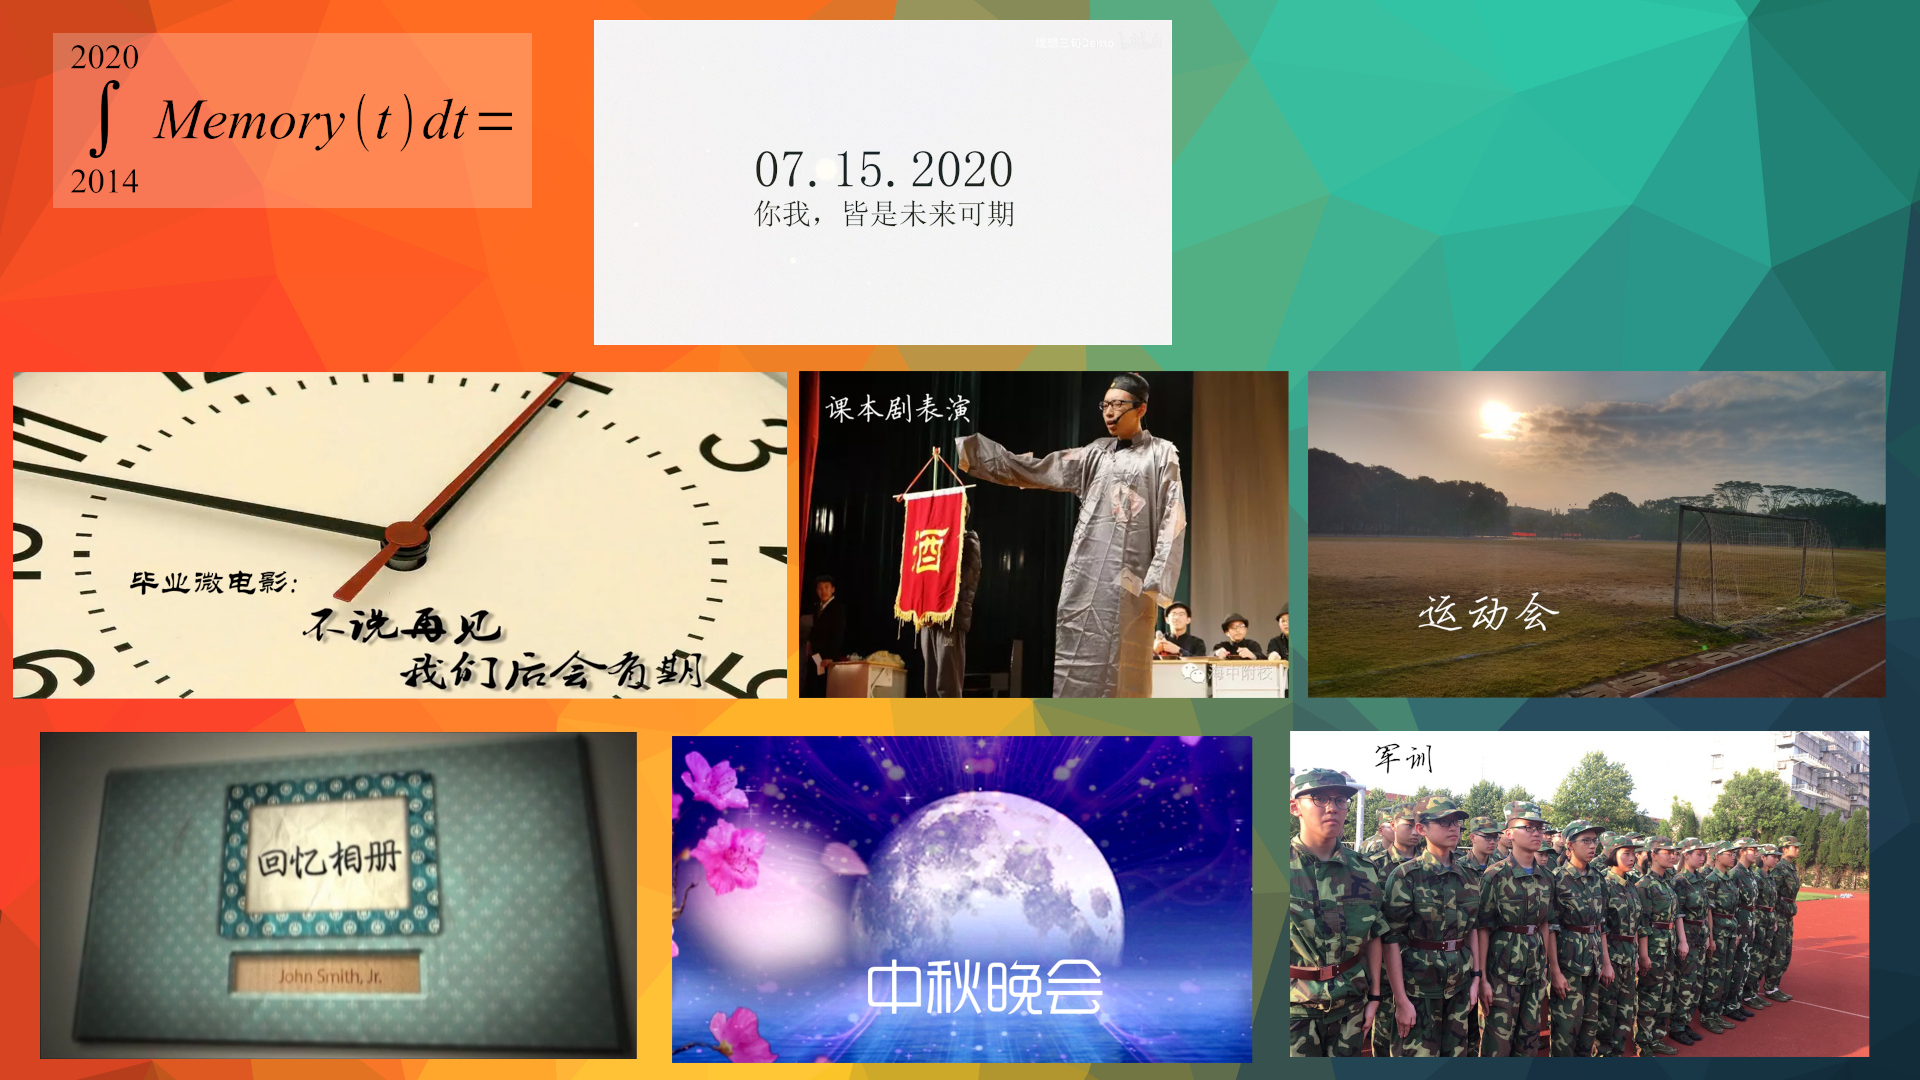
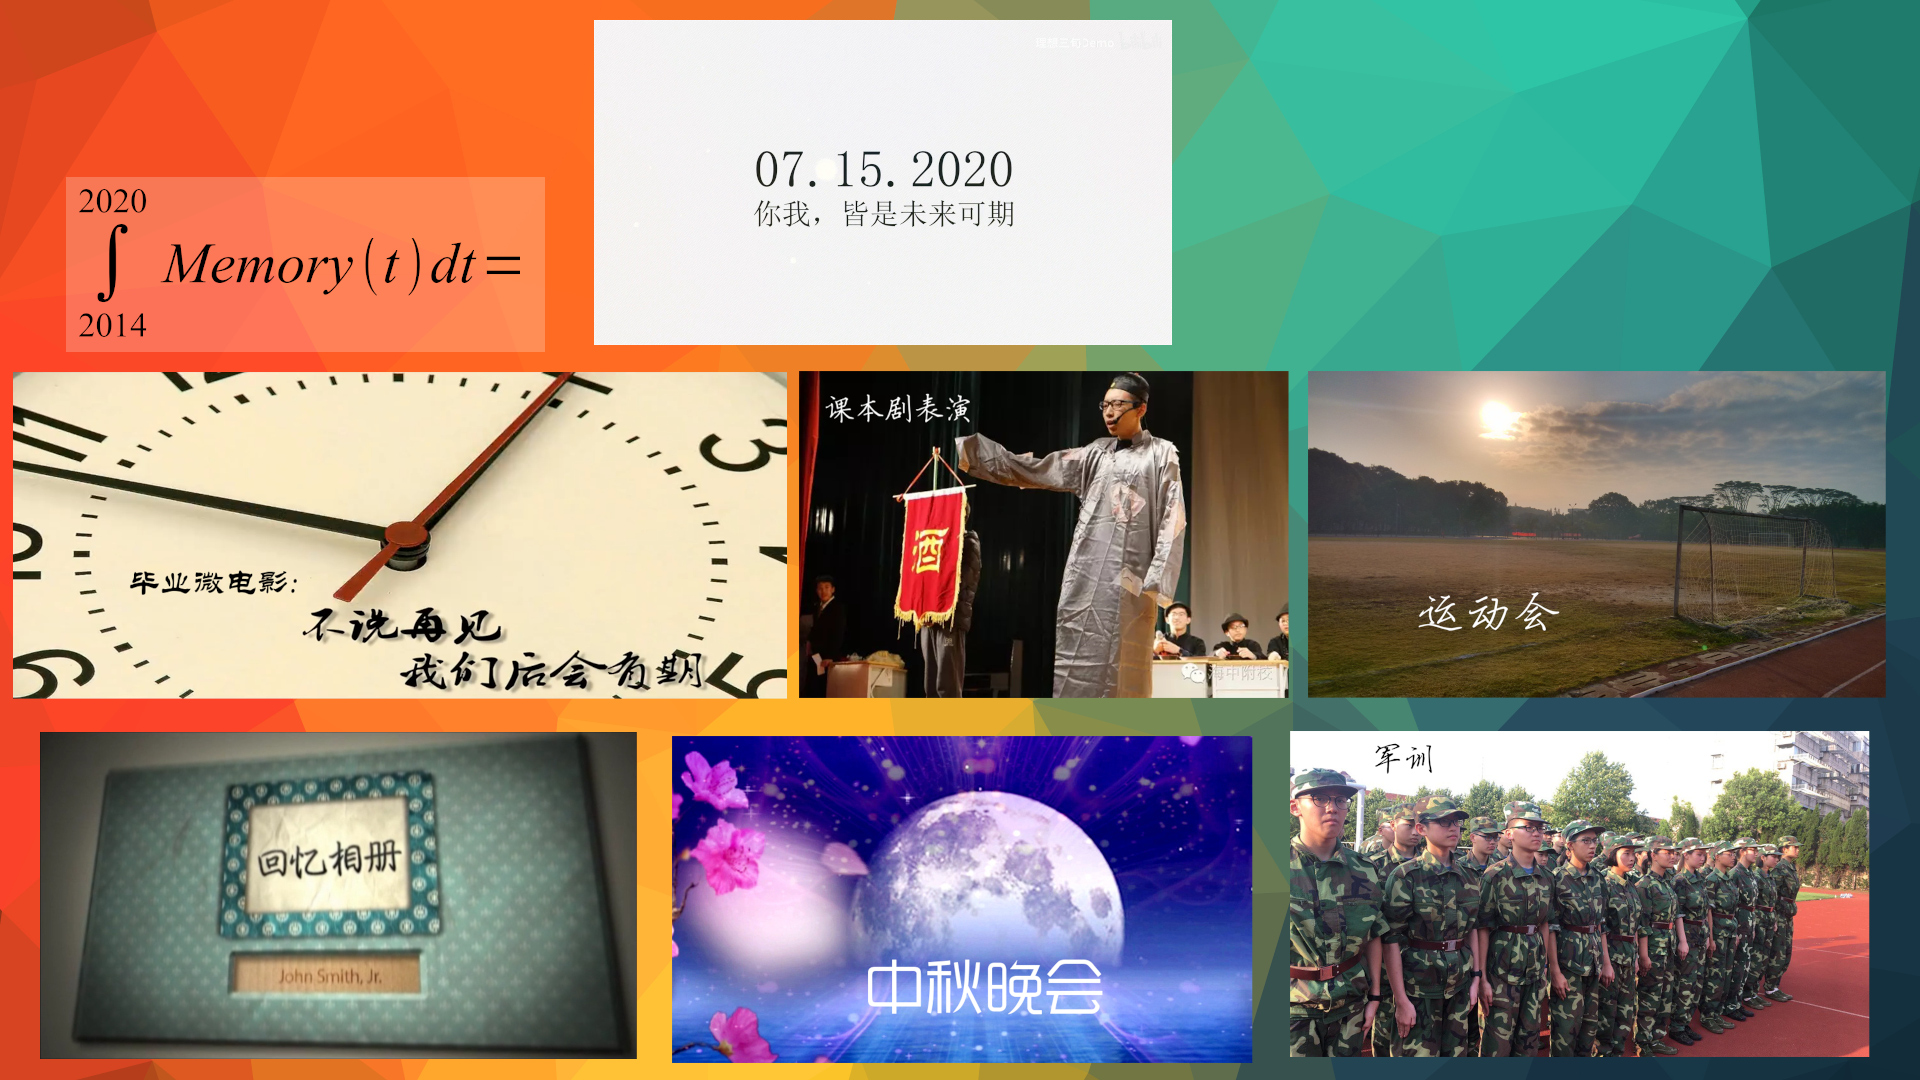
Add hot spot region

Changed region(s): [[0.0, 0.0306, 0.2812, 0.3361]]

diff --git a/special/main/album/_vti_cnf/album-list.htm b/special/main/album/_vti_cnf/album-list.htm
@@ -1,18 +1,18 @@
 vti_encoding:SR|utf8-nl
 vti_author:SR|TESTUSER-0D65EB\\testuser
 vti_modifiedby:SR|TESTUSER-0D65EB\\testuser
-vti_timelastmodified:TR|21 Jul 2020 16:29:32 -0000
+vti_timelastmodified:TR|22 Jul 2020 02:01:53 -0000
 vti_timecreated:TR|15 Jan 2020 13:54:14 -0000
 vti_title:SR|班级介绍导航
 vti_extenderversion:SR|6.0.2.6551
-vti_nexttolasttimemodified:TW|21 Jan 2020 15:21:37 -0000
+vti_nexttolasttimemodified:TW|21 Jul 2020 16:29:32 -0000
 vti_backlinkinfo:VX|index.htm album/memories/memories.htm album/graduation-album-2020/graduation-album-2020.htm album/album.htm album/performances/performances.htm album/mid-autumn-party/mid-autumn-party.htm album/sports-meeting/sports-meeting.htm album/album-list.htm album/military-training/military-training.htm album/microfilm/microfilm.htm
-vti_cacheddtm:TX|21 Jul 2020 16:29:32 -0000
-vti_filesize:IR|1225
+vti_cacheddtm:TX|22 Jul 2020 02:01:53 -0000
+vti_filesize:IR|1331
 vti_cachedtitle:SR|班级介绍导航
 vti_cachedbodystyle:SR|<body>
-vti_cachedlinkinfo:VX|Q|../main.css H|../index.htm S|../images/back.png H|microfilm/microfilm.htm H|memories/memories.htm H|performances/performances.htm H|mid-autumn-party/mid-autumn-party.htm H|military-training/military-training.htm H|sports-meeting/sports-meeting.htm S|精彩瞬间导航-2.jpg K|album-list.htm
-vti_cachedsvcrellinks:VX|FQUS|main.css FHUS|index.htm FSUS|images/back.png FHUS|album/microfilm/microfilm.htm FHUS|album/memories/memories.htm FHUS|album/performances/performances.htm FHUS|album/mid-autumn-party/mid-autumn-party.htm FHUS|album/military-training/military-training.htm FHUS|album/sports-meeting/sports-meeting.htm FSUS|album/精彩瞬间导航-2.jpg FKUS|album/album-list.htm
+vti_cachedlinkinfo:VX|Q|../main.css H|../index.htm S|../images/back.png H|microfilm/microfilm.htm H|memories/memories.htm H|performances/performances.htm H|mid-autumn-party/mid-autumn-party.htm H|military-training/military-training.htm H|sports-meeting/sports-meeting.htm H|graduation-album-2020/graduation-album-2020.htm S|精彩瞬间导航-2.jpg K|album-list.htm
+vti_cachedsvcrellinks:VX|FQUS|main.css FHUS|index.htm FSUS|images/back.png FHUS|album/microfilm/microfilm.htm FHUS|album/memories/memories.htm FHUS|album/performances/performances.htm FHUS|album/mid-autumn-party/mid-autumn-party.htm FHUS|album/military-training/military-training.htm FHUS|album/sports-meeting/sports-meeting.htm FHUS|album/graduation-album-2020/graduation-album-2020.htm FSUS|album/精彩瞬间导航-2.jpg FKUS|album/album-list.htm
 vti_cachedneedsrewrite:BR|false
 vti_cachedhasbots:BR|false
 vti_cachedhastheme:BR|false

diff --git a/special/main/album/album-list.htm b/special/main/album/album-list.htm
@@ -26,6 +26,8 @@
 <area href="military-training/military-training.htm" shape="rect" coords="1281, 720, 1884, 1071">
 <area href="sports-meeting/sports-meeting.htm" shape="rect" coords="1303, 366, 1895, 702">
 
+<area href="graduation-album-2020/graduation-album-2020.htm" shape="rect" coords="586, 14, 1183, 354">
+
 </map>
 <img border="0" src="精彩瞬间导航-2.jpg" usemap="#FPMap0" width="1920" height="1080">
 </div>

diff --git a/special/main/album/graduation-album-2020/_vti_cnf/graduation-album-2020.htm b/special/main/album/graduation-album-2020/_vti_cnf/graduation-album-2020.htm
@@ -5,7 +5,7 @@ vti_timelastmodified:TR|21 Jul 2020 16:33:48 -0000
 vti_timecreated:TR|21 Jul 2020 16:29:15 -0000
 vti_title:SR|海中20届16班毕业相册
 vti_extenderversion:SR|6.0.2.6551
-vti_backlinkinfo:VX|
+vti_backlinkinfo:VX|album/album-list.htm
 vti_nexttolasttimemodified:TW|21 Jul 2020 16:32:33 -0000
 vti_cacheddtm:TX|21 Jul 2020 16:33:48 -0000
 vti_filesize:IR|813
